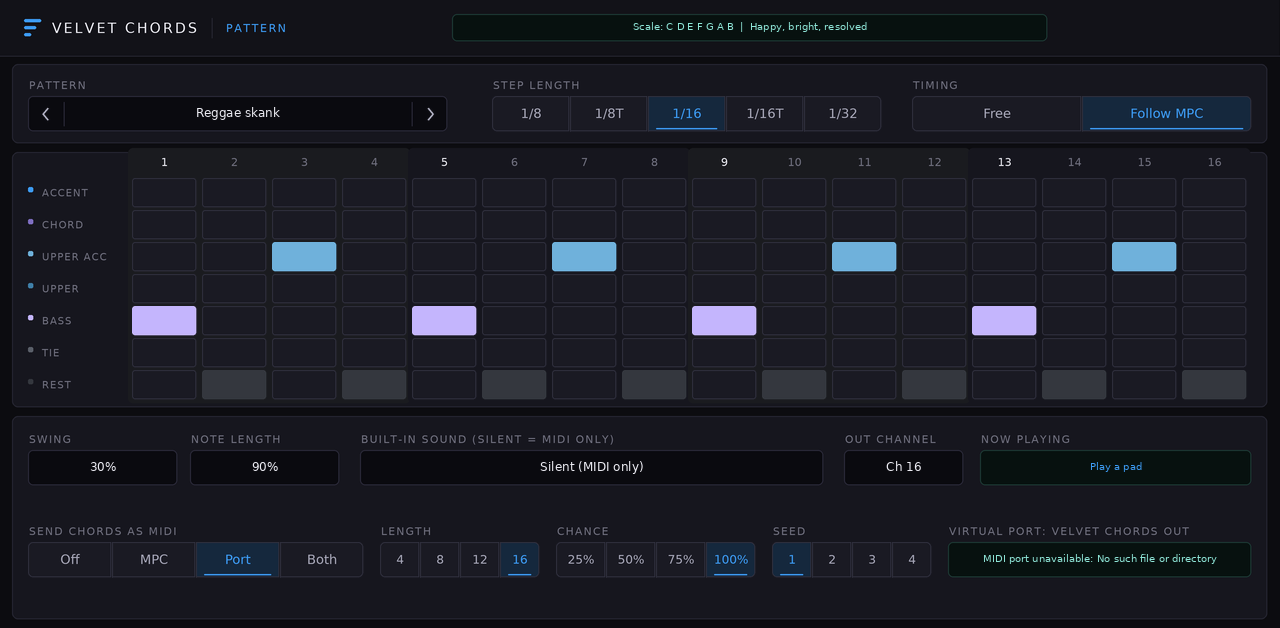
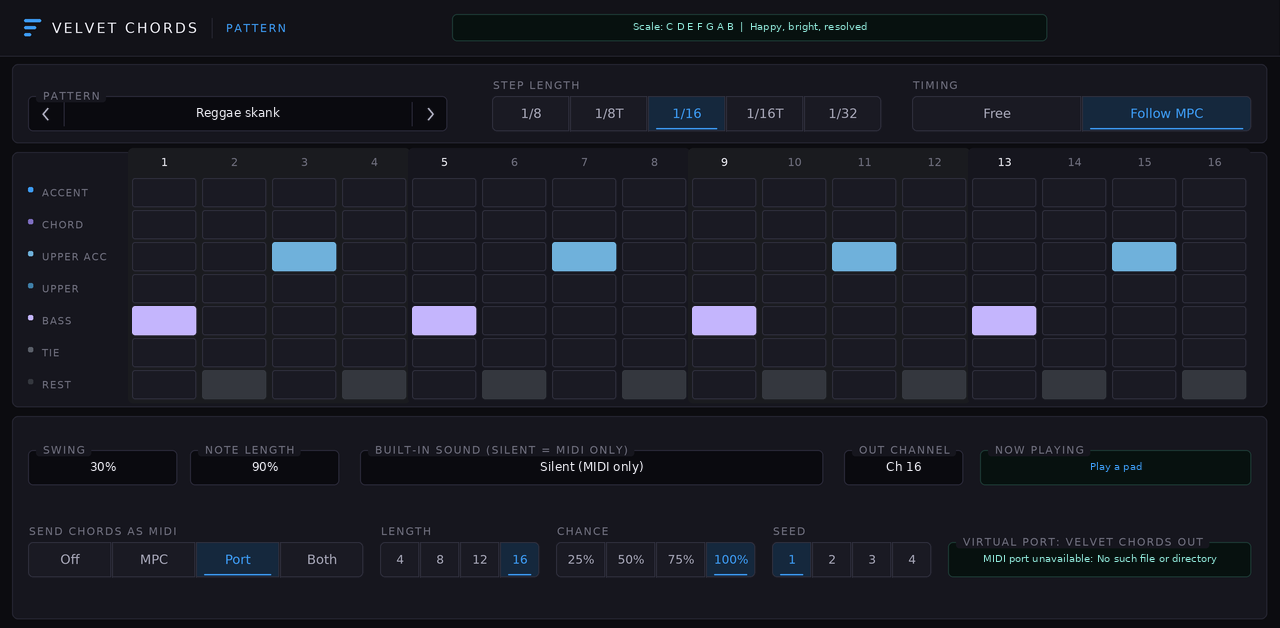
Skin: title bars, boxed field labels, amber scale dots
Panels with headings get a title bar. Field captions sit in a tab on
the top edge of the box. Scale dots are amber on white keys and yellow
on black keys. Regenerated skin and previews.

Claude-Session: https://claude.ai/code/session_01XRqyjua6wzinB9NqNDDbhg

diff --git a/tools/make_skin.py b/tools/make_skin.py
@@ -49,6 +49,9 @@ LCD_BG = "#07110f"        # read-only displays: dark glass
 LCD_EDGE = "#1d3a35"
 LCD_TEXT = "#8fe6d8"      # teal-green display text
 KEY_WHITE = "#e4e3ec"; KEY_WHITE_EDGE = "#a6a4b6"; KEY_BLACK = "#0b0b10"; KEY_BLACK_EDGE = "#3a3a48"
+BAR = "#1b1b25"           # panel title bars
+SCALE_ON_WHITE = "#d4900f"  # scale dots: amber on the white keys, yellow on the black keys
+SCALE_ON_BLACK = "#f2c14e"
 GOLD = ACCENT  # names used by older helpers
 ROSE = ACCENT
 BRIGHT = TEXT
@@ -114,6 +117,10 @@ class Art:
         """section/control label: small, uppercase, tracked"""
         self.text(x, y, txt.upper(), 10.5, LABEL, "Medium", tracking=1.3)
 
+    def text_width(self, txt, size, weight="Medium", tracking=0.0):
+        f = font(weight, size * SS)
+        return (sum(self.d.textlength(c, font=f) for c in txt) + tracking * SS * (len(txt) - 1)) / SS
+
     def done(self):
         return self.im.resize((self.w, self.h), Image.LANCZOS)
 
@@ -164,7 +171,7 @@ class Images:
 
     def dot(self, on_black):
         a = Art(14, 14)
-        a.d.ellipse(a.s(3, 3, 11, 11), fill="#c9ccd2" if on_black else "#26282c")
+        a.d.ellipse(a.s(3, 3, 11, 11), fill=SCALE_ON_BLACK if on_black else SCALE_ON_WHITE)
         return self.save("vc_dot_%s.png" % ("b" if on_black else "w"), a.done())
 
     def blank(self, w, h):
@@ -245,10 +252,25 @@ class Background:
         x0, y0, x1, y1 = box
         self.a.rect(x0, y0, x1, y1, 6, fill=SURFACE, edge=HAIRLINE)
         if title:
-            self.a.label(x0 + 16, y0 + 12, title)
+            self.bar(box, title)
+
+    def bar(self, box, title, right=None):
+        """panel title bar: a darker strip across the top of the panel, with its title in tracked capitals"""
+        x0, y0, x1, _ = box
+        self.a.rect(x0 + 1, y0 + 1, x1 - 1, y0 + 27, 5, fill=BAR, corners=(True, True, False, False))
+        self.a.line(x0 + 1, y0 + 27, x1 - 1, y0 + 27, HAIRLINE)
+        self.a.text(x0 + 16, y0 + 14, title.upper(), 10.5, TEXT_2, "Medium", anchor="lm", tracking=1.6)
+        if right:
+            self.a.text(x1 - 16, y0 + 14, right.upper(), 9.5, LABEL, "Medium", anchor="rm", tracking=1.0)
 
     def field(self, x, y, w, h):
         self.a.rect(x, y, x + w, y + h, 5, fill=FIELD, edge=FIELD_EDGE)
+
+    def tab(self, x, y, txt):
+        """a boxed label: the caption sits in a small tab on the top edge of the field below it (y is that edge)"""
+        w = self.a.text_width(txt.upper(), 10.5, "Medium", 1.3) + 14
+        self.a.rect(x + 8, y - 7, x + 8 + w, y + 7, 3, fill=SURFACE)
+        self.a.text(x + 15, y, txt.upper(), 10.5, LABEL, "Medium", anchor="lm", tracking=1.3)
 
     def lcd(self, x, y, w, h):
         self.a.rect(x, y, x + w, y + h, 5, fill=LCD_BG, edge=LCD_EDGE)
@@ -354,7 +376,9 @@ class Skin:
     def value_field(self, comps, bg, param, x, y, w, h=CH, size=18, colour=TEXT, editable=True, caption=None, box=True, lcd=False):
         if box:
             bg.lcd(x, y, w, h) if lcd else bg.field(x, y, w, h)
-        if caption:
+        if caption and box:
+            bg.tab(x, y, caption)
+        elif caption:
             bg.caption(x + 1, y - 17, caption)
         key = "vcField_%dx%d_%d_%s_%s" % (w, h, size, colour.lstrip("#"), "e" if editable else "r")
         comps_def = ([focus_sub(w, h)] if editable else []) + [label_sub("Value", "Data", 10, 0, w - 20, h, size, colour)]
@@ -376,7 +400,7 @@ class Skin:
             comps.append(self.place(key, "next" if is_next else "prev", px, y, h, h, [("Data", self.p(trig))]))
         self.value_field(comps, bg, param, x + h, y, w - 2 * h, h, size=18, box=False)
         if caption:
-            bg.caption(x + 1, y - 17, caption)
+            bg.tab(x, y, caption)
 
     def segments(self, comps, bg, group, param, labels, x, y, w, h=CH, caption=None, ids=None, ntotal=None):
         """joined segmented control; ids/ntotal let one parameter's options span several rows"""
@@ -531,8 +555,7 @@ class Skin:
         bg.panel((12, 152, 632, 620))
         self.pad_grid(c, 20, 162)
         bg.panel((640, 152, 1268, 620))
-        bg.caption(656, 166, "Key")
-        bg.a.text(1252, 166, "DOTS MARK THE SCALE", 9.5, "#4d5159", "Medium", anchor="ra", tracking=1.0)
+        bg.bar((640, 152, 1268, 620), "Key", right="Dots mark the scale")
         self.keyboard(c, "Key", 656, 186, 85, 100, 50, 60, dots=True)   # seven white keys across the panel
         # progression play: the progression plays by itself while the host plays
         self.switch(c, bg, "Progression play", 656, 290)
@@ -594,11 +617,10 @@ class Skin:
         bg.a.text(866, 28, "TAP SELECTS", 10.5, LABEL, "Medium", anchor="rm", tracking=1.3)
         self.switch(c, bg, "Edit follows pad", 876, 16)
         self.header_banks(c, bg, "bank3")
-        bg.panel((12, 64, 632, 620))
+        bg.panel((12, 64, 632, 620), "Pads")
         self.pad_grid(c, 20, 110)
-        bg.a.text(28, 84, "TAP A PAD TO EDIT IT", 10.5, LABEL, "Medium", tracking=1.3)
-        bg.panel((640, 64, 1268, 620))
-        bg.a.label(656, 78, "Chord")   # section heading: root, bass, type, inversion and octave belong to the chord
+        bg.a.text(616, 77, "TAP A PAD TO EDIT IT", 9.5, LABEL, "Medium", anchor="rm", tracking=1.0)
+        bg.panel((640, 64, 1268, 620), "Chord")   # section heading: root, bass, type, inversion and octave belong to the chord
         self.keyboard(c, "Edit root", 656, 98, 48, 86, 30, 52)
         self.segments(c, bg, "bass", "Edit bass", ["Root"] + notes, 656, 222, 46, caption="Bass note")
         self.stepper(c, bg, "Edit type", "Edit type prev", "Edit type next", 656, 296, 596, "Chord type")
@@ -642,8 +664,7 @@ class Skin:
         c = []
         self.header_info(c, bg)
         L, R = 28, 664
-        bg.panel((12, 64, 632, 620))
-        bg.a.label(L, 76, "Playing")
+        bg.panel((12, 64, 632, 620), "Playing")
         self.switch(c, bg, "Hold", L, 110, "Hold: chords keep playing")
         bg.a.text(L + 60, 128, "PRESS ANOTHER PAD TO CHANGE, SAME PAD TO STOP", 9.5, "#4d5159", "Medium", anchor="lm", tracking=1.0)
         self.segments(c, bg, "rep", "Repeat", ["Off", "1/4", "1/8", "1/8T", "1/16", "1/16T", "1/32"], L, 176, 84, caption="Repeat (in time with the MPC)")
@@ -655,8 +676,7 @@ class Skin:
         self.readout(c, bg, "Detected", L + 312, 534, 276, 40, size=13, caption="Detected")
         self.action_button(c, bg, "det_use", "Use scale", "Use detected scale", L, 464, w=120, h=36)
         self.action_button(c, bg, "det_clear", "Clear notes", "Clear detection", L + 128, 464, w=120, h=36)
-        bg.panel((648, 64, 1268, 620))
-        bg.a.label(R, 76, "MIDI import")
+        bg.panel((648, 64, 1268, 620), "MIDI import")
         self.stepper(c, bg, "Import file", "Import prev", "Import next", R, 116, 588, "File (Velvet Chords/Import)")
         self.action_button(c, bg, "imp", "Load chords", "Import load", R, 184, w=280)
         self.segments(c, bg, "imppads", "Pads play", ["Layout", "Imported"], R + 296, 184, 146, caption="")
